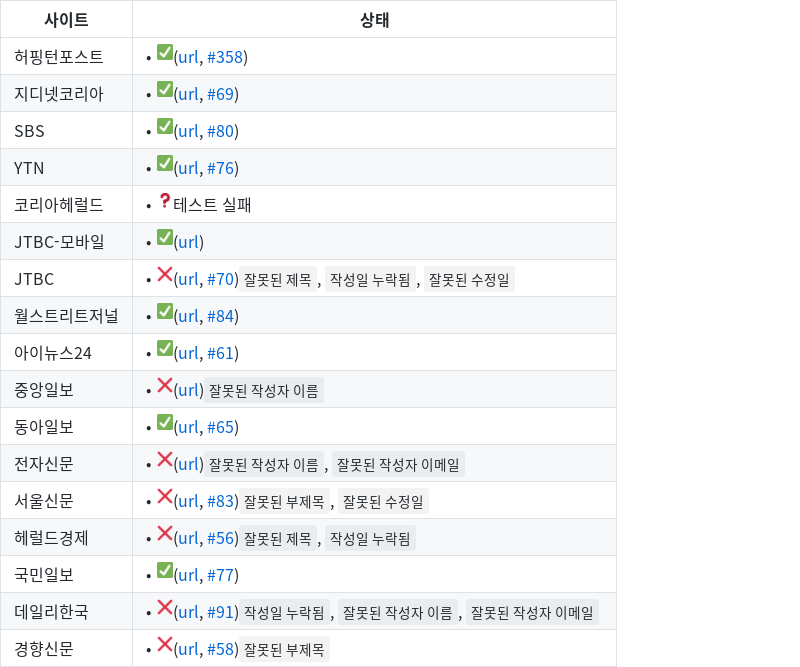
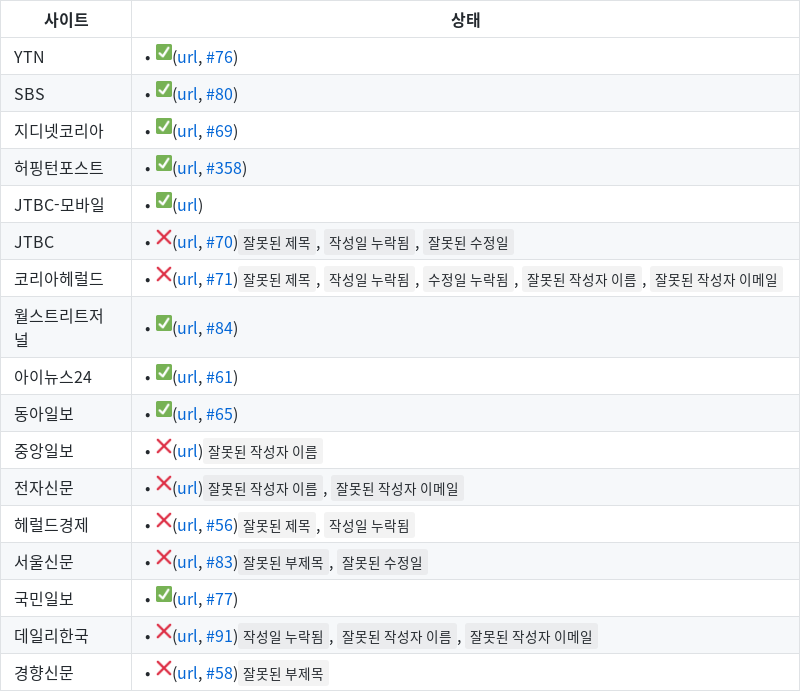
Fri Aug 21 00:39:29 UTC 2020

diff --git a/health-check.md b/health-check.md
@@ -1,19 +1,19 @@
 | 사이트 | 상태 |
 |------|-------|
-| 허핑턴포스트 | • ✅([url](https://www.huffingtonpost.kr/entry/story_kr_5d36a558e4b004b6adb5029c?9e4), [#358](https://github.com/disjukr/just-news/issues/#358)) |
-| 지디넷코리아 | • ✅([url](http://www.zdnet.co.kr/view/?no=20141104074223), [#69](https://github.com/disjukr/just-news/issues/#69)) |
-| SBS | • ✅([url](https://news.sbs.co.kr/news/endPage.do?news_id=N1002697236), [#80](https://github.com/disjukr/just-news/issues/#80)) |
 | YTN | • ✅([url](https://www.ytn.co.kr/_ln/0103_201411190800481989), [#76](https://github.com/disjukr/just-news/issues/#76)) |
-| 코리아헤럴드 | • ❓테스트 실패 |
+| SBS | • ✅([url](https://news.sbs.co.kr/news/endPage.do?news_id=N1002697236), [#80](https://github.com/disjukr/just-news/issues/#80)) |
+| 지디넷코리아 | • ✅([url](http://www.zdnet.co.kr/view/?no=20141104074223), [#69](https://github.com/disjukr/just-news/issues/#69)) |
+| 허핑턴포스트 | • ✅([url](https://www.huffingtonpost.kr/entry/story_kr_5d36a558e4b004b6adb5029c?9e4), [#358](https://github.com/disjukr/just-news/issues/#358)) |
 | JTBC-모바일 | • ✅([url](http://mnews.jtbc.joins.com/News/Article.aspx?news_id=NB11866214)) |
 | JTBC | • ❌([url](http://news.jtbc.joins.com/article/article.aspx?news_id=NB10639468), [#70](https://github.com/disjukr/just-news/issues/#70))`잘못된 제목`, `작성일 누락됨`, `잘못된 수정일` |
+| 코리아헤럴드 | • ❌([url](http://khnews.kheraldm.com/view.php?ud=20141111001137&md=20141111180830_BK&kr=1), [#71](https://github.com/disjukr/just-news/issues/#71))`잘못된 제목`, `작성일 누락됨`, `수정일 누락됨`, `잘못된 작성자 이름`, `잘못된 작성자 이메일` |
 | 월스트리트저널 | • ✅([url](https://realtime.wsj.com/korea/2014/10/13/%EB%B0%95%EC%9B%90%EC%88%9C-%EC%84%9C%EC%9A%B8%EC%8B%9C%EC%9E%A5-%EB%AF%B8%EA%B5%AD-%EC%96%B8%EB%A1%A0%EC%97%90-%EB%8F%99%EC%84%B1%EA%B2%B0%ED%98%BC-%EC%A7%80%EC%A7%80-%EB%B0%9C%EC%96%B8/), [#84](https://github.com/disjukr/just-news/issues/#84)) |
 | 아이뉴스24 | • ✅([url](http://www.inews24.com/view/860573), [#61](https://github.com/disjukr/just-news/issues/#61)) |
-| 중앙일보 | • ❌([url](https://news.joins.com/article/23621286))`잘못된 작성자 이름` |
 | 동아일보 | • ✅([url](http://news.donga.com/3/03/20141107/67723014/1), [#65](https://github.com/disjukr/just-news/issues/#65)) |
+| 중앙일보 | • ❌([url](https://news.joins.com/article/23621286))`잘못된 작성자 이름` |
 | 전자신문 | • ❌([url](http://www.etnews.com/20191031000370?mc=ns_003_00006))`잘못된 작성자 이름`, `잘못된 작성자 이메일` |
-| 서울신문 | • ❌([url](http://seoul.co.kr/news/newsView.php?id=20141204500025), [#83](https://github.com/disjukr/just-news/issues/#83))`잘못된 부제목`, `잘못된 수정일` |
 | 헤럴드경제 | • ❌([url](http://news.heraldcorp.com/view.php?ud=20141023000202&md=20141023091209_BK), [#56](https://github.com/disjukr/just-news/issues/#56))`잘못된 제목`, `작성일 누락됨` |
+| 서울신문 | • ❌([url](http://seoul.co.kr/news/newsView.php?id=20141204500025), [#83](https://github.com/disjukr/just-news/issues/#83))`잘못된 부제목`, `잘못된 수정일` |
 | 국민일보 | • ✅([url](http://news.kmib.co.kr/article/view.asp?arcid=0008864720&code=61121111), [#77](https://github.com/disjukr/just-news/issues/#77)) |
 | 데일리한국 | • ❌([url](http://daily.hankooki.com/lpage/politics/201412/dh20141219103740137430.htm), [#91](https://github.com/disjukr/just-news/issues/#91))`작성일 누락됨`, `잘못된 작성자 이름`, `잘못된 작성자 이메일` |
 | 경향신문 | • ❌([url](http://biz.khan.co.kr/khan_art_view.html?artid=201410311921301&code=920100&med=khan), [#58](https://github.com/disjukr/just-news/issues/#58))`잘못된 부제목` |
